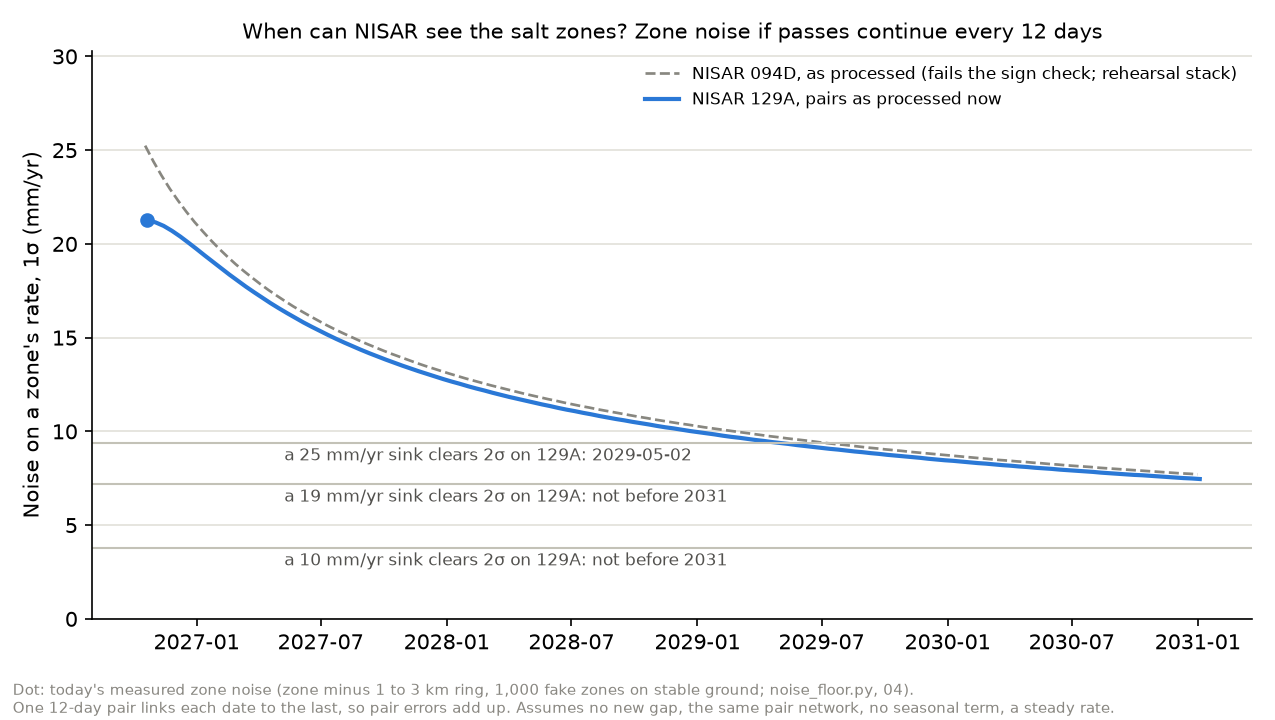
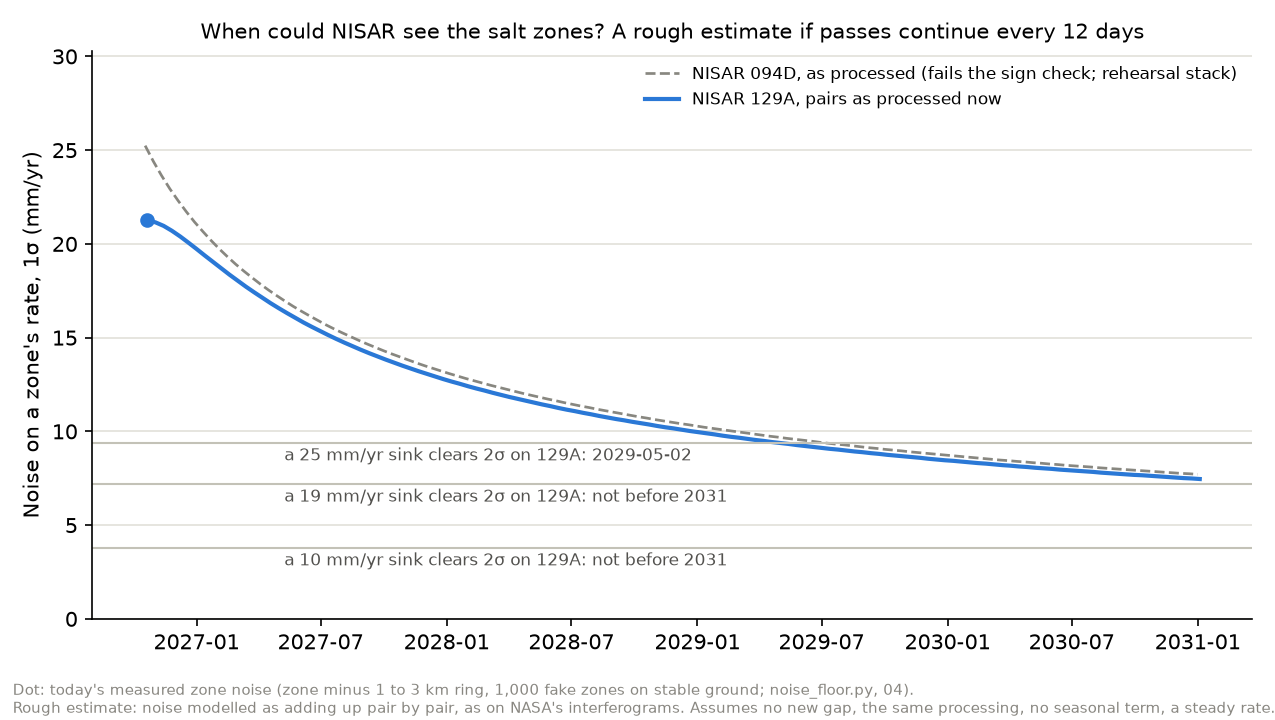
r04: the noise is not the chain of pairs; correct noise_floor texts and the pitch line
notebooks/04/gslc_chain_vs_network.py builds 094D from NISAR single-look data (GSLC, 10 dates) twice:
a chain of 12-day pairs and a redundant network (12/24/36 days). On the same 2,131 stable pixels the zone
rate noise is 12.5 (chain) vs 11.7 mm/yr (network), so longer pairs barely help. The single-look route is
quieter than NASA's interferograms at the same box and ring (12.5 vs 19.5 mm/yr).

noise_floor.py: the detection horizon is relabelled a rough estimate and "longer pairs bring it earlier"
is withdrawn; numbers unchanged. Logged in logs/04-geodesist.md, DECISIONS.md, AI-DISCLOSURE.md, STATUS.md.

Changed region(s): [[0.0, 0.9778, 1.0, 1.0], [0.1529, 0.0306, 0.8871, 0.0611]]

diff --git a/notebooks/04/gslc_chain_vs_network.py b/notebooks/04/gslc_chain_vs_network.py
@@ -1,0 +1,190 @@
+# Owner: 04 · Geodesist (Matei)
+"""Exploration only (never imported). Do pair errors add up along NASA's chain of 12-day pairs?
+
+    python notebooks/04/gslc_chain_vs_network.py        (Earthdata token from .env; about 300 MB read once, cached)
+
+The test, on one dataset: NISAR 094D raw single-look data (GSLC, 10 dates, 20 Jun to 18 Oct 2026), read and
+multilooked exactly as 02's notebooks/02/gslc_pairs_094d.py does (same 12 x 12 km box, 8 x 16 looks to 80 m, same
+reference to stable ground). Then the same stack.py cleaning, inversion and rate, twice:
+  - chain:   one 12-day (or 24-day) pair from each date to the next, as in NASA's interferograms;
+  - network: every pair up to 36 days apart (21 pairs, 16 closure triplets), as in 02's notebook.
+For each, the noise of a zone's rate from fake zones on stable ground (300 m disc minus a 0.5 to 1.5 km ring; the
+12 km box is too small for noise_floor.py's 1 to 3 km ring), and how the zone-to-zone spread of cumulative
+displacement grows with the number of pairs. If pair errors add up, the chain's spread grows like √(pairs) and its
+rate noise is clearly larger than the network's.
+
+Reads data/work/ocnele_mari/094D/ (meta.json, dem.npz) for the DEM. Caches the interferograms in
+data/work/ocnele_mari/r04/gslc094d_ifgs.npz (git-ignored). Writes notebooks/04/gslc_chain_vs_network.json.
+Credit: the reading and pair forming follow 02's notebook (Alexandru, Eric).
+"""
+import json
+import os
+import sys
+from datetime import date
+from pathlib import Path
+
+ROOT = Path(__file__).resolve().parents[2]
+sys.path.insert(0, str(ROOT))
+import numpy as np  # noqa: E402
+
+import common as C  # noqa: E402
+import fetch  # noqa: E402
+import split  # noqa: E402
+import stack  # noqa: E402
+from noise_floor import chain_step_sigma, rate_sigma_factor, robust_sigma  # noqa: E402
+
+SITE, TRACK, HALF_M, LX, LY, MAX_DAYS = "ocnele_mari", "094D", 6000, 8, 16, 36
+CACHE = C.WORK / SITE / "r04" / "gslc094d_ifgs.npz"
+OUT = ROOT / "notebooks" / "04" / "gslc_chain_vs_network.json"
+ZONE_R, RING, DRAWS = 300.0, (500.0, 1500.0), 1000
+dd = lambda d: date(int(d[:4]), int(d[4:6]), int(d[6:]))
+
+
+def token():
+    """EARTHDATA_TOKEN from the environment or .env (never printed)."""
+    if os.environ.get("EARTHDATA_TOKEN"):
+        return os.environ["EARTHDATA_TOKEN"]
+    env = ROOT / ".env"
+    for line in env.read_text(encoding="utf-8").splitlines() if env.exists() else []:
+        if line.strip().startswith("EARTHDATA_TOKEN="):
+            return line.split("=", 1)[1].strip().strip('"').strip("'")
+    return None
+
+
+def granules():
+    import requests
+    r = requests.get("https://cmr.earthdata.nasa.gov/search/granules.json", timeout=60,
+                     params=dict(short_name="NISAR_L2_GSLC_PROVISIONAL_V1", point="24.290,45.088", page_size=200))
+    out = {}
+    for e in r.json()["feed"]["entry"]:
+        if "_094_D_" in e["title"]:
+            url = next(l["href"] for l in e["links"] if l["href"].endswith(".h5") and l["href"].startswith("https"))
+            out[e["time_start"][:10].replace("-", "")] = url
+    return dict(sorted(out.items()))
+
+
+def multilook(a):
+    ny, nx = a.shape[0] // LY, a.shape[1] // LX
+    return a[:ny * LY, :nx * LX].reshape(ny, LY, nx, LX).mean(axis=(1, 3))
+
+
+def read_all():
+    """Read every date's HH box once; return the multilooked interferograms of every pair up to MAX_DAYS."""
+    tok = token()
+    slcs, xs, ys, mb, epsg = {}, None, None, 0, None
+    for d, url in granules().items():
+        h5, rf = fetch.open_h5(url, tok)
+        g = h5["science/LSAR/GSLC/grids/frequencyA"]
+        epsg = int(g["projection"][()])
+        zs = [C.to_xy(epsg, z["lon"], z["lat"]) for z in C.SITES[SITE]["zones"]]
+        cx, cy = np.mean([p[0] for p in zs]), np.mean([p[1] for p in zs])
+        x, y = g["xCoordinates"][()], g["yCoordinates"][()]
+        c0, c1 = int(np.searchsorted(x, cx - HALF_M)), int(np.searchsorted(x, cx + HALF_M))
+        r0, r1 = int(np.searchsorted(-y, -(cy + HALF_M))), int(np.searchsorted(-y, -(cy - HALF_M)))
+        c1 = c0 + (c1 - c0) // LX * LX
+        r1 = r0 + (r1 - r0) // LY * LY
+        s = g["HH"][r0:r1, c0:c1]
+        x, y = x[c0:c1], y[r0:r1]
+        if xs is not None and (len(x) != len(xs) or abs(x[0] - xs[0]) > 1 or abs(y[0] - ys[0]) > 1):
+            raise SystemExit(f"{d}: GSLC grid differs from the first date; stop")
+        slcs[d], xs, ys, mb = s, x, y, mb + rf.fetched
+        print(f"{d}: {s.shape} read, {rf.fetched / 1e6:.0f} MB", flush=True)
+    dates = sorted(slcs)
+    meta = dict(epsg=epsg, x0=float(xs[:LX].mean()), y0=float(ys[:LY].mean()), dx=float(xs[LX] - xs[0]),
+                dy=float(ys[LY] - ys[0]), nx=len(xs) // LX, ny=len(ys) // LY, wavelength=0.24393, synthetic=False)
+    pairs = [(a, b) for i, a in enumerate(dates) for b in dates[i + 1:] if (dd(b) - dd(a)).days <= MAX_DAYS]
+    pw = {d: multilook(np.abs(slcs[d]) ** 2) for d in dates}
+    ifg = np.stack([multilook(slcs[a] * np.conj(slcs[b])) for a, b in pairs]).astype("c8")
+    coh = np.stack([np.abs(ifg[k]) / np.sqrt(pw[a] * pw[b]) for k, (a, b) in enumerate(pairs)]).astype("f4")
+    CACHE.parent.mkdir(parents=True, exist_ok=True)
+    np.savez_compressed(CACHE, ifg=ifg, coh=coh, dates=np.array(dates), pairs=np.array([f"{a}_{b}" for a, b in pairs]),
+                        meta=json.dumps(meta), mb=mb)
+    return ifg, coh, dates, pairs, meta, mb
+
+
+def load():
+    if CACHE.exists():
+        z = np.load(CACHE)
+        pairs = [tuple(p.split("_")) for p in z["pairs"]]
+        return z["ifg"], z["coh"], [str(d) for d in z["dates"]], pairs, json.loads(str(z["meta"])), int(z["mb"])
+    return read_all()
+
+
+def run_network(name, keep, ifg, coh, dates, pairs, meta, dem, stable):
+    idx = [k for k, p in enumerate(pairs) if keep(p)]
+    sub = [pairs[k] for k in idx]
+    phase = []
+    for k in idx:
+        ref = ifg[k][stable & (coh[k] >= C.MIN_COH)]
+        phase.append(np.angle(ifg[k] * np.conj(ref.sum() / np.abs(ref.sum()))).astype("f4"))
+    data = dict(phase=np.stack(phase), coh=coh[idx], qa=[{}] * len(sub))
+    mm, _ = stack.to_mm_and_clean(SITE, meta, data, dem)
+    groups = stack.groups_of(sub, dates)
+    cum = stack.invert(sub, dates, mm, groups)
+    vel, _, _ = stack.fit_rate(dates, cum, groups)
+    return sub, groups, cum, vel
+
+
+def fake_zones(vel, cum, stable, meta, rng):
+    """Zone-minus-ring rates and cumulative series of random 300 m discs on stable ground."""
+    ny, nx = vel.shape
+    k = int(np.ceil(RING[1] / abs(meta["dx"]))) + 1
+    yy, xx = np.mgrid[-k:k + 1, -k:k + 1]
+    d = np.hypot(xx * meta["dx"], yy * meta["dy"])
+    disc_o, ring_o = d <= ZONE_R, (d > RING[0]) & (d <= RING[1])
+    good = stable & np.isfinite(vel)
+    ys, xs = np.nonzero(good[k:ny - k, k:nx - k])
+    rates, series = [], []
+    for i in rng.permutation(len(ys)):
+        r, c = ys[i] + k, xs[i] + k
+        sl = (slice(r - k, r + k + 1), slice(c - k, c + k + 1))
+        g = good[sl]
+        dm, rm = disc_o & g, ring_o & g
+        if dm.sum() < 10 or rm.sum() < 20:
+            continue
+        rates.append(np.median(vel[sl][dm]) - np.median(vel[sl][rm]))
+        series.append(np.nanmedian(cum[(slice(None),) + sl][:, dm], 1) - np.nanmedian(cum[(slice(None),) + sl][:, rm], 1))
+        if len(rates) >= DRAWS:
+            break
+    return np.array(rates), np.array(series)
+
+
+def main():
+    ifg, coh, dates, pairs, meta, mb = load()
+    gmeta = C.load_json(C.WORK / SITE / TRACK / "meta.json")
+    dem = split.resample(gmeta, np.load(C.WORK / SITE / TRACK / "dem.npz")["dem"], meta)
+    stable = stack.stable_mask(SITE, meta)
+    nxt = {a: b for a, b in zip(dates, dates[1:])}
+    nets = {"chain": lambda p: nxt.get(p[0]) == p[1], "network": lambda p: True}
+    t = np.asarray(C.years([f"{d[:4]}-{d[4:6]}-{d[6:]}" for d in dates]), float)
+    out = dict(source="NISAR_L2_GSLC_PROVISIONAL_V1, HH, 094D, 12 x 12 km box, 80 m (as notebooks/02/gslc_pairs_094d.py)",
+               dates=dates, mb_read=round(mb / 1e6), zone_r_m=ZONE_R, ring_m=list(RING), draws=DRAWS, seed=2026,
+               stable_pixels=int(stable.sum()), runs={})
+    built = {name: run_network(name, keep, ifg, coh, dates, pairs, meta, dem, stable) for name, keep in nets.items()}
+    common = np.logical_and.reduce([np.isfinite(b[3]) for b in built.values()])
+    out["common_pixels"] = int((common & stable).sum())
+    for name, (sub, groups, cum, vel) in built.items():
+        g = list(np.asarray(groups).tolist()) if not isinstance(groups, list) else groups
+        for tag, mask in (("own_pixels", np.isfinite(vel)), ("common_pixels", common)):
+            v = np.where(mask, vel, np.nan)
+            rates, series = fake_zones(v, cum, stable, meta, np.random.default_rng(2026))
+            spread = [round(robust_sigma(series[:, i]), 2) for i in range(series.shape[1])]
+            sig = robust_sigma(rates)
+            out["runs"].setdefault(name, dict(pairs=len(sub), pair_days=sorted({(dd(b) - dd(a)).days for a, b in sub})))
+            out["runs"][name][tag] = dict(
+                fake_zones=len(rates), zone_rate_sigma_mm_yr=round(sig, 2), spread_by_date_mm=spread,
+                per_pair_sigma_from_spread_growth_mm=round(chain_step_sigma(g, series), 2),
+                rate_sigma_if_chain_random_walk_mm_yr=round(chain_step_sigma(g, series) * rate_sigma_factor(t, g, True), 2),
+                rate_sigma_if_independent_dates_mm_yr=round(robust_sigma(series[:, 1]) / np.sqrt(2) * rate_sigma_factor(t, g, False), 2))
+            print(f"{name} [{tag}]: {len(sub)} pairs · {len(rates)} fake zones · zone rate σ {sig:.1f} mm/yr · "
+                  f"random-walk model {out['runs'][name][tag]['rate_sigma_if_chain_random_walk_mm_yr']} · "
+                  f"independent-dates model {out['runs'][name][tag]['rate_sigma_if_independent_dates_mm_yr']} · spread {spread}")
+    c, n = out["runs"]["chain"]["common_pixels"], out["runs"]["network"]["common_pixels"]
+    out["ratio_chain_over_network_common_pixels"] = round(c["zone_rate_sigma_mm_yr"] / n["zone_rate_sigma_mm_yr"], 2)
+    OUT.write_text(json.dumps(out, indent=1) + "\n", encoding="utf-8")
+    print(f"common pixels {out['common_pixels']} · chain / network rate σ = "
+          f"{out['ratio_chain_over_network_common_pixels']} · wrote {OUT.relative_to(ROOT)}")
+
+
+if __name__ == "__main__":
+    main()

diff --git a/noise_floor.py b/noise_floor.py
@@ -19,15 +19,19 @@ What it does:
    the motion a pin needs before the page may say anything.
 3. Up/east check. Zone-level 2 × 2 solve with both tracks (north dropped), and 129A alone assuming no horizontal
    motion. Diagnostic only: the tracks cover different months, and 094D fails the sign check.
-4. Detection horizon. Each date is linked to the previous one by a single 12-day pair (13 pairs for 15 dates on 129A,
-   9 for 10 on 094D), so pair errors add up: the zone-to-zone spread of cumulative displacement grows like √(pairs).
-   The per-pair noise is set so that a least-squares rate (one offset per acquisition group) on that random walk
-   reproduces the measured zone σ, and is cross-checked against the spread growth itself. The rate σ is projected for
-   passes every 12 days after the last date ("chain"), next to a best case where redundant longer pairs stop the
-   errors adding up ("best_case"). It reports the first date a steady vertical sink of 10, 19 or 25 mm/yr reaches 2σ.
+4. Detection horizon, a rough estimate. On NASA's interferograms the zone-to-zone spread of cumulative displacement
+   grows with the number of pairs, roughly like √(pairs), so the noise is modelled as a random walk ("chain"): the
+   per-pair noise is set so that a least-squares rate (one offset per acquisition group) reproduces the measured zone
+   σ, and is cross-checked against the spread growth. The rate σ is projected for passes every 12 days after the last
+   date, next to an optimistic bound with independent noise per date ("best_case"). It reports the first date a
+   steady vertical sink of 10, 19 or 25 mm/yr reaches 2σ.
 
-What it cannot tell you: the projection assumes passes every 12 days with no new gap, the same coherence and pair
-network, a steady rate and no seasonal term. A seasonal signal or another gap makes the dates later.
+What it cannot tell you: the projection assumes passes every 12 days with no new gap, the same coherence and
+processing, a steady rate and no seasonal term. A seasonal signal or another gap makes the dates later. The cause of
+the noise is not the chain of pairs: on 094D raw single-look data (notebooks/04/gslc_chain_vs_network.py, 15 Nov), a
+redundant network of 12-, 24- and 36-day pairs was no quieter than a chain (11.7 against 12.5 mm/yr on the same
+pixels), while the same data processed from the single-look files was quieter than NASA's interferograms (12.5 against
+19.5 mm/yr, same box and ring). More pairs alone will not bring the dates earlier.
 """
 from __future__ import annotations
 
@@ -233,12 +237,14 @@ def track_floor(site: str, track: str, draws: int, until: str, rng) -> dict:
                        sigma_per_pair_from_rate_mm=round(step_from_rate, 2),
                        sigma_per_pair_from_spread_growth_mm=round(step_from_spread, 2),
                        los_u_site=round(u_site, 3), revisit_days=REVISIT_DAYS, dates=proj_dates,
-                       chain=dict(meaning="as processed now: one 12-day pair links each date to the last, so pair "
-                                          "errors add up (random walk); per-pair σ set to reproduce today's zone σ",
+                       chain=dict(meaning="rough estimate: noise modelled as a random walk along the 12-day pairs "
+                                          "(fits the spread growth on NASA's interferograms), per-pair σ set to "
+                                          "reproduce today's zone σ. The cause is not the pair chain itself: see "
+                                          "notebooks/04/gslc_chain_vs_network.json",
                                   sigma_mm_yr=[round(x, 2) for x in chain_sig], first_2sigma=first_dates(chain_sig)),
-                       best_case=dict(meaning="if redundant longer pairs stopped the errors adding up: independent "
-                                              "noise per date equal to the measured per-pair σ (an upper bound on "
-                                              "what more pairs could gain)",
+                       best_case=dict(meaning="optimistic bound, not a result: independent noise per date equal to "
+                                              "the measured per-pair σ. Redundant longer pairs did not reach it on "
+                                              "094D (notebooks/04/gslc_chain_vs_network.json)",
                                       sigma_mm_yr=[round(x, 2) for x in best_sig],
                                       first_2sigma=first_dates(best_sig))),
     )
@@ -291,15 +297,15 @@ def plot(res: dict, path) -> None:
         ax.text(x0 + dt.timedelta(days=200), f["sigma_needed_mm_yr"] - 0.25,
                 f"a {s} mm/yr sink clears 2σ on 129A: {when}", va="top", ha="left", fontsize=8, color="#52514e")
     ax.set_ylabel("Noise on a zone's rate, 1σ (mm/yr)")
-    ax.set_title("When can NISAR see the salt zones? Zone noise if passes continue every 12 days", fontsize=10)
+    ax.set_title("When could NISAR see the salt zones? A rough estimate if passes continue every 12 days", fontsize=10)
     ax.set_ylim(0, max(r["detection"]["sigma_now_mm_yr"] for r in res.values()) * 1.2)
     ax.grid(axis="y", color="#e1e0d9", lw=0.8)
     for sp in ("top", "right"):
         ax.spines[sp].set_visible(False)
     ax.legend(frameon=False, fontsize=8, loc="upper right")
     fig.text(0.01, 0.01, "Dot: today's measured zone noise (zone minus 1 to 3 km ring, 1,000 fake zones on stable "
-             "ground; noise_floor.py, 04).\nOne 12-day pair links each date to the last, so pair errors add up. "
-             "Assumes no new gap, the same pair network, no seasonal term, a steady rate.", fontsize=7,
+             "ground; noise_floor.py, 04).\nRough estimate: noise modelled as adding up pair by pair, as on NASA's "
+             "interferograms. Assumes no new gap, the same processing, no seasonal term, a steady rate.", fontsize=7,
              color="#898781")
     fig.tight_layout(rect=(0, 0.06, 1, 1))
     fig.savefig(path)

diff --git a/logs/04-geodesist.md b/logs/04-geodesist.md
@@ -6,6 +6,30 @@ This is the running log for role 04, newest entry first, so the team can follow 
 
 ---
 
+## Sun 15 Nov 2026, about 13:15 · Correction: the noise is not the chain of pairs
+
+Branch `r04/noise-floor`. Done with Claude Code. New exploration script `notebooks/04/gslc_chain_vs_network.py`, result in `notebooks/04/gslc_chain_vs_network.json`.
+
+**The test.** 094D from NISAR's raw single-look data (GSLC, the same 10 dates, 20 Jun to 18 Oct 2026), read and multilooked as in 02's `notebooks/02/gslc_pairs_094d.py` (12 × 12 km box around the zones, 80 m, 286 MB read). Then the same `stack.py` cleaning, inversion and rate, twice: a **chain** of one pair per new date (9 pairs, as in NASA's interferograms) and a **redundant network** of every pair up to 36 days (21 pairs, 16 closure triplets). Noise from 1,000 fake zones on stable ground: a 300 m disc minus a 0.5 to 1.5 km ring (the box is too small for the 1 to 3 km ring). Seed 2026.
+
+| Build, same 2,131 stable pixels | Zone rate σ (mm/yr) | Spread of cumulative displacement, date 1 → date 9 (mm) |
+| --- | --- | --- |
+| Single-look data, chain | 12.5 | 2.8 → 4.5 |
+| Single-look data, redundant network | 11.7 | 2.8 → 4.5 |
+| NASA's interferograms (GUNW, rehearsal stack), same box and ring | 19.5 | — |
+
+**What it shows.**
+- **The pair network barely matters** (chain over network 1.07). My explanation of the morning entry, "pair errors add up along the chain, so longer pairs would bring the dates earlier", is **wrong** and is withdrawn.
+- On the single-look data the spread grows little after the first pair (2.8 → 4.5 mm, not ×3), so the noise is not a random walk there. It acts more like a slow, steady pattern of rates on "stable" ground. That could be real slope movement in the hills or a seasonal effect (soil moisture, troposphere) over a summer-only window. This test cannot tell which.
+- **The processing route matters more:** the same dates built from the single-look data are about a third quieter than NASA's interferograms (12.5 against 19.5 mm/yr). The comparison mixes the GSLC box with the rehearsal GUNW stack and their different corrections (no ionosphere screen on the GSLC route), so read it as a lead, not a result.
+
+**What changes.**
+- `noise_floor.py`: the detection-horizon text now calls the projection a rough estimate. It is still modelled as noise adding up pair by pair, which fits NASA's interferograms, and the chain was not tested there. The `best_case` is labelled an optimistic bound that more pairs did not reach. The chart is retitled. The numbers are unchanged.
+- The pitch sentence for 01 and the caption for 06 lose "longer pairs would bring it earlier". Correction posted on PR #54.
+- **For 02/03:** the single-look route is the lead worth following (open item 6 becomes "process from GSLC", not "add longer pairs"). A wider box would allow the 1 to 3 km ring and a direct comparison with `noise_floor.json`.
+
+---
+
 ## Sun 15 Nov 2026, about 10:30 · How big a motion can the page show, and when will NISAR see the zones?
 
 Branch `r04/noise-floor`. Done with Claude Code (see the `AI-DISCLOSURE.md` log). New script `noise_floor.py` (04); it reads the tied tracks in `data/work/ocnele_mari/` and writes `products/ocnele_mari/noise_floor.json` and `noise_floor.png`. It changes no rate, no tie and no other role's file. Run: `python noise_floor.py ocnele_mari` (about 7 s).
@@ -35,7 +59,7 @@ Zone-level 2 × 2 solve, north dropped: σ up 22 to 23, σ east 27 to 28 mm/yr. 
 
 ### 5. When can NISAR see the zones?
 
-Each date is linked to the previous one by a single 12-day pair, so pair errors add up. The zone-to-zone spread of cumulative displacement grows like √(pairs), about 3.0 mm per pair on 129A. A random walk with 2.6 mm per pair reproduces today's zone σ of 21.3 mm/yr, so the two estimates agree. Independent noise per date would explain only about a third of it.
+*Corrected at 13:15, see the entry above: the cause is not the chain of pairs.* Each date is linked to the previous one by a single 12-day pair. The zone-to-zone spread of cumulative displacement grows like √(pairs), about 3.0 mm per pair on 129A. A random walk with 2.6 mm per pair reproduces today's zone σ of 21.3 mm/yr, so the two estimates agree. Independent noise per date would explain only about a third of it.
 
 Projected with passes every 12 days and no new gap (129A, zone minus 1 to 3 km ring):
 
@@ -45,9 +69,9 @@ Projected with passes every 12 days and no new gap (129A, zone minus 1 to 3 km r
 | 19 mm/yr | 7.2 mm/yr | not before 2031 |
 | 10 mm/yr | 3.8 mm/yr | not before 2031 |
 
-**What this cannot tell you.** It assumes no new gap, the same pair network and coherence, a steady rate and no seasonal term. The JSON also holds a `best_case` (independent noise per date, as if redundant longer pairs stopped the errors adding up). It is an upper bound, not a result, and it is not plotted. What it does say is that the chain of pairs, not the radar itself, limits the result. The test to run is open item 6: longer pairs (24 and 36 days) from GSLC. 02 has since built 094D from NISAR's single-look data with redundant pairs (`DECISIONS.md`, 15 Nov, 05:30): rerunning `noise_floor.py` on that stack is the direct test of the chain explanation.
+**What this cannot tell you.** It assumes no new gap, the same pair network and coherence, a steady rate and no seasonal term. The JSON also holds a `best_case` (independent noise per date, as if redundant longer pairs stopped the errors adding up). It is an upper bound, not a result, and it is not plotted. ~~What it does say is that the chain of pairs, not the radar itself, limits the result.~~ Tested at 13:15 (entry above): a redundant network is no quieter than the chain, so this was wrong.
 
-**For the pitch (01).** "Today one zone carries ±21 mm/yr of noise, and the strongest salt zone moves −12: inside the noise. Processed as now, NISAR would see a 25 mm/yr sink by about mid-2029; longer pairs are the way to get there sooner."
+**For the pitch (01).** "Today one zone carries ±21 mm/yr of noise, and the strongest salt zone moves −12: inside the noise. Processed as now, NISAR would see a 25 mm/yr sink by about mid-2029, a rough estimate." (The earlier ending, "longer pairs are the way to get there sooner", was withdrawn at 13:15.)
 
 ---
 

diff --git a/STATUS.md b/STATUS.md
@@ -37,7 +37,7 @@ The full plan, hour by hour, is [docs/schedule.md](docs/schedule.md).
 | 01 Mario | Hour 0, the guide, the hour-2 review, the contract freeze | [build-spec.md § 01](docs/build-spec.md#01--lead-and-story-mario) |
 | 02 Alexandru and Eric | Token; T1 (venue network); T2 (`fetch.py --list` gives 22 pairs) | [§ 02](docs/build-spec.md#02--nisar-data-alexandru-and-eric) |
 | 03 Alexandru and Eric | O-05 (method); read 02's hand-off | [§ 03](docs/build-spec.md#03--insar-analyst-alexandru-and-eric) |
-| 04 Matei | 15 Nov: `noise_floor.py` → `products/ocnele_mari/noise_floor.json` and `.png`. Zone noise (zone minus 1 to 3 km ring) 21 mm/yr on 129A, 25 on 094D; no zone reaches 2σ (best \|z\| 0.6). The pin needs more than 36 mm/yr before it may say anything. Pair errors add up along the chain of 12-day pairs: as processed, a 25 mm/yr sink clears 2σ on 129A around May 2029. Up/east from 129A + 094D is noise (σ 22 to 28 mm/yr). For 06, 05, 01: `logs/04-geodesist.md`, 15 Nov. 14 Nov, 17:40: 129A on the team's own stream. First pair verified on the full HDF5 (mask, grid, look vectors target to sensor, LOS sign consistent; phase sign still T3). 13 pairs, two acquisition groups referenced separately, gap 18 Jan to 23 Jun. Real tie: offset −5.80 mm/yr, 347,765 px, scatter 39.2; swap vs EGMS 0.70 mm/yr. `meta.json`, `geom.npz`, `ts.npz`, `cal.npz`, overlays handed to 06; `calib.json` (129A). Next: 094D; T3 with 03/05; frame paragraph. Log: `logs/04-geodesist.md` | [§ 04](docs/build-spec.md#04--geodesist-matei) |
+| 04 Matei | 15 Nov: `noise_floor.py` → `products/ocnele_mari/noise_floor.json` and `.png`. Zone noise (zone minus 1 to 3 km ring) 21 mm/yr on 129A, 25 on 094D; no zone reaches 2σ (best \|z\| 0.6). The pin needs more than 36 mm/yr before it may say anything. As processed, a 25 mm/yr sink clears 2σ on 129A around May 2029 (rough estimate). 13:15: on 094D single-look data a redundant pair network is no quieter than a chain (11.7 vs 12.5 mm/yr), so longer pairs alone will not help; the single-look route is quieter than NASA's interferograms (12.5 vs 19.5). Up/east from 129A + 094D is noise (σ 22 to 28 mm/yr). For 06, 05, 01: `logs/04-geodesist.md`, 15 Nov. 14 Nov, 17:40: 129A on the team's own stream. First pair verified on the full HDF5 (mask, grid, look vectors target to sensor, LOS sign consistent; phase sign still T3). 13 pairs, two acquisition groups referenced separately, gap 18 Jan to 23 Jun. Real tie: offset −5.80 mm/yr, 347,765 px, scatter 39.2; swap vs EGMS 0.70 mm/yr. `meta.json`, `geom.npz`, `ts.npz`, `cal.npz`, overlays handed to 06; `calib.json` (129A). Next: 094D; T3 with 03/05; frame paragraph. Log: `logs/04-geodesist.md` | [§ 04](docs/build-spec.md#04--geodesist-matei) |
 | 05 Paul | EGMS 2020–2025 tile cut (`egms_cut.py`): z3 sinks −18.9 mm/yr, stable ground −0.5 mm/yr. Station screening and the 2026 third-witness search done: no open station within 70 km has 2026 data. T10 done (PASS WITH NOTE). z3 investigated: zone in place, 029A incoherent there, 007D's expected 4 mm is within noise, so 2026 "not detected"; needs the Jan to Oct extension (03). EGMS GNSS model CSV found and passed to 04 for T8. Moisture and rain screen (NISAR SME2, ERA5) for z4 and the control ring: no flags; predeclared 7-day rain fails to beat persistence in the r06 forecast backtest (4.74 against 4.19 mm). OPERA weather-model troposphere: agrees with fit.py's elevation correction on 007D (z4 −2.1 against −2.0 mm); 029A fails the predeclared sign check (z4 range −2.8 to −7.5 mm stays open). Closure vs moisture change (58 HyP3 ZIPs): no link (window ρ 0.19, p 0.42). EGMS stable-ground check done: the tie area sinks −0.6 mm/yr (79 % within ±1.5), small moving patches shift it by only 0.1 mm/yr. Next: monument screening, then check 8 (`docs/validation-log.md`) | [§ 05](docs/build-spec.md#05--validator-paul) |
 | 06 Darius | Page merged on `main` (14 Nov, 16:25). Open audit findings for 06 (phone sheet covers the controls, sign convention hidden on phone, Compare mixing time spans, no Pages workflow): see the audit table under Notes. | [§ 06](docs/build-spec.md#06--app-developer-darius) |
 

diff --git a/DECISIONS.md b/DECISIONS.md
@@ -244,3 +244,5 @@ A decision recorded here is not a question. Nobody blocks on one. If a line look
 10:30 | 04 (Claude Code) | Zone noise from 1,000 random fake zones on the tie pixels per zone size and track, robust σ (1.4826 · MAD), seed 2026; reference rings 1 to 3 km and 6.5 to 8 km | per-pixel σ / √n; bootstrap over dates | Neighbouring pixels share their noise, so σ / √n would claim 5 to 8 mm/yr where the fake zones show 21 to 31
 10:30 | 04 (Claude Code) | Project the detection date with errors that add up pair by pair (random walk), not independent noise per date | independent noise per date | The zone-to-zone spread of cumulative displacement grows like √(pairs) (2.7 mm per pair), and the per-pair σ fitted to today's rate σ (2.6 mm) matches it; independent noise would explain only a third of today's rate σ. The independent-noise case is kept in the JSON as `best_case`, an upper bound, and is not plotted
 10:30 | 04 (Claude Code) | Write the result to `products/ocnele_mari/noise_floor.json` and `.png` from a new script, `noise_floor.py` (04) | add it to `calibrate.py`; leave it in `data/work/` | Analysis, not the tie: it changes no rate. 06 and 01 need it in `products/`, which only scripts write
+13:15 | 04 (Claude Code) | Test the "pair errors add up" explanation on one dataset built twice (chain and redundant network from 094D single-look data) and compare on the pixels both keep | rerun noise_floor.py on 02's stack; compare each build on its own pixels | 02 kept no stack, only a summary; and the chain keeps fewer pixels (599 against 1,000 fake zones), which made the first comparison unfair (12.5 against 16.1 mm/yr)
+13:15 | 04 (Claude Code) | Keep the detection projection, relabelled a rough estimate, instead of removing it | remove it; keep the old wording | It still reproduces today's noise on NASA's interferograms; what failed is the explanation and the "longer pairs" advice, which are withdrawn

diff --git a/AI-DISCLOSURE.md b/AI-DISCLOSURE.md
@@ -87,3 +87,4 @@ One row per substantive use. The "checked" column says what a person verified, n
 | Sat 14 Nov 2026, about 22:30 | Alex (on Matei's session) | Claude Code | Found why the Change map was empty inside the town (stack.py dropped pixels with one broken pair); partial-series fix in stack.py; zone names from OpenStreetMap and INFO.md (common.py, export.py --labels-only, app zone panel); before/after screenshots | To fill in: rebuild products on the team pipeline and check the page |
 | Sat 14 Nov 2026, about 20:10 | Alex (on Matei's session) | Claude Code | Reviewed the deployed page; app/main.js, app/style.css, index.html: folded text, plain-language Agreement on the geometry pair, loading chip for map dots, forecast shortcut, logo; export.py town coverage and agreement pairs; products rebuilt with fetch.py (094D), stack.py, calibrate.py, export.py, validate.py | To fill in: Alex checks the page on a phone |
 | Sun 15 Nov 2026, about 10:30 | Matei (04) | Claude Code | A strict mock-judging of the live page against the five criteria, a 3-hour roadmap, and `noise_floor.py`: zone and pin noise from fake zones on stable ground, an up/east check, and the "when can NISAR see it" projection (`products/ocnele_mari/noise_floor.json`, `.png`) | To fill in (Matei): the method in the docstring, the random-walk check (2.6 vs 3.0 mm per pair), and the chart before it goes on a slide |
+| Sun 15 Nov 2026, about 13:15 | Matei (04) | Claude Code | `notebooks/04/gslc_chain_vs_network.py` (094D GSLC built as a chain and as a redundant network, 286 MB read with Matei's Earthdata token from `.env`, never printed), the correction of the morning's "pair errors add up" explanation in `noise_floor.py`, the log and PR #54, and the handoff comment to 06 on PR #54 | To fill in (Matei) |
